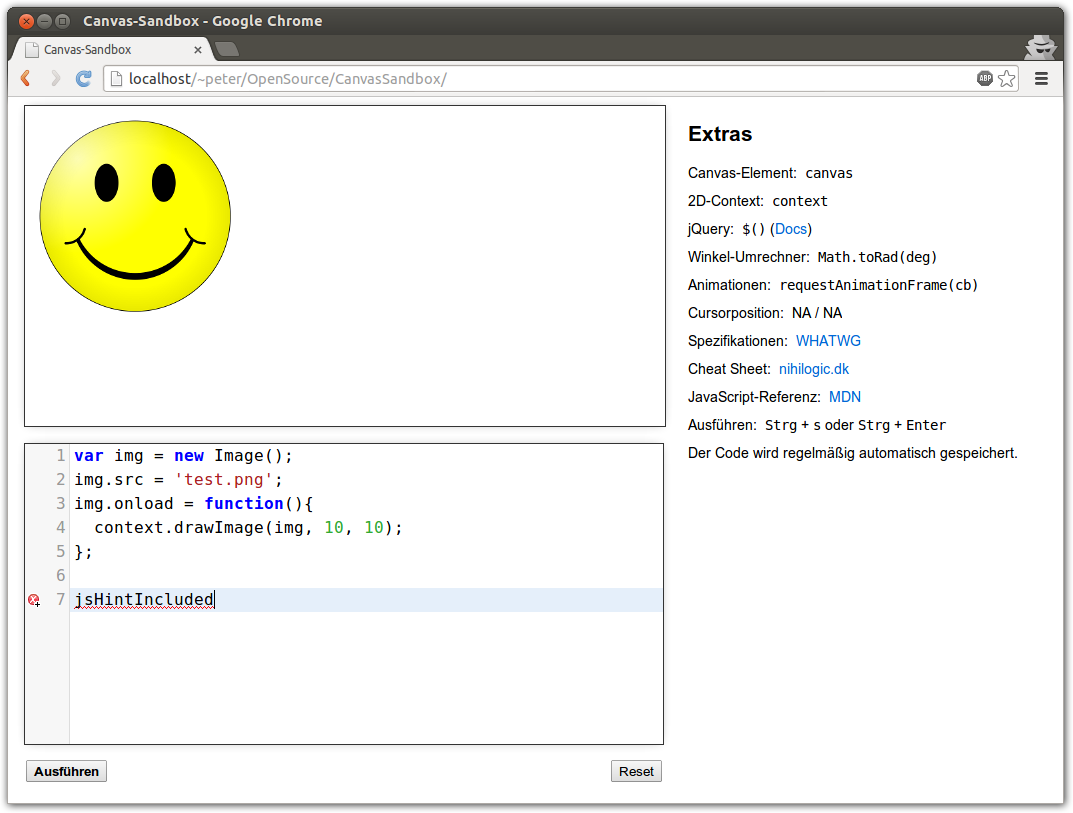
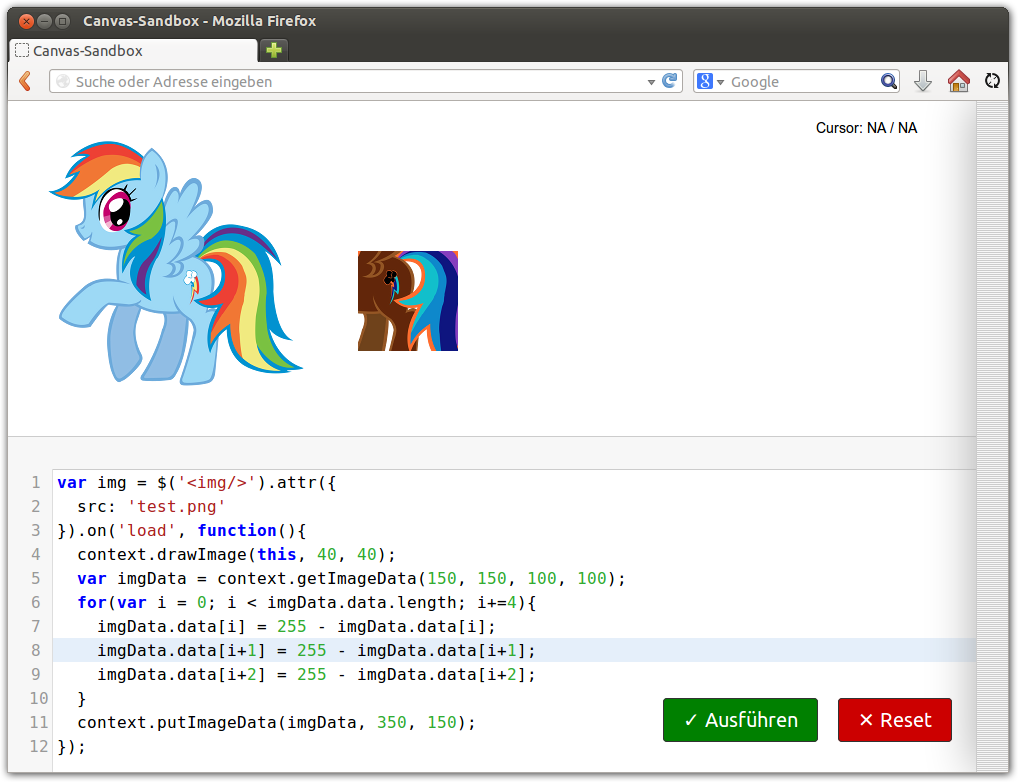
New design is new

diff --git a/index.html b/index.html
@@ -7,15 +7,21 @@
 
 <div id="Main">
 	<canvas height="320" width="640" id="Canvas0"></canvas>
-	<br>
 	<textarea id="Code" cols="60" rows="10"></textarea>
-	<br>
-	<input type="button" value="Ausführen" id="Execute">
-	<input type="button" value="Reset" id="Reset">
 </div>
 
+<p class="buttons">
+	<input type="button" value="✓ Ausführen" id="Execute">
+	<input type="button" value="✕ Reset" id="Reset">
+</p>
+
+<p class="cursor">
+	Cursor:
+	<span id="PosX">NA</span> / <span id="PosY">NA</span>
+</p>
+
 <div id="Side">
-	<h2>Extras</h2>
+	<h2>Hilfe</h2>
 	<dl>
 		<dt>Canvas-Element:</dt>
 		<dd><code>canvas</code></dd>
@@ -27,8 +33,6 @@
 		<dd><code>Math.toRad(deg)</code></dd>
 		<dt>Animationen:</dt>
 		<dd><code>requestAnimationFrame(cb)</code></dd>
-		<dt>Cursorposition:</dt>
-		<dd><span id="PosX">NA</span> / <span id="PosY">NA</span></dd>
 		<dt>Spezifikationen:</dt>
 		<dd><a href="http://www.whatwg.org/specs/web-apps/current-work/multipage/the-canvas-element.html">WHATWG</a>
 		<dt>Cheat Sheet:</dt>

diff --git a/src/script/canvasSandbox.js b/src/script/canvasSandbox.js
@@ -77,4 +77,20 @@ $('#Reset').click(function(){
 });
 
 
+var resizeCanvas = function(){
+  var height = $('html').height() - $('.CodeMirror').height() - 32;
+  var width = $('#Main').width();
+  $('canvas').attr({
+    height: height,
+    width: width
+  });
+};
+$(window).load(function(){
+  setTimeout(function(){ // Hack required for Firefox
+    resizeCanvas();
+  }, 25);
+});
+$(window).on('resize', resizeCanvas);
+
+
 });

diff --git a/readme.md b/readme.md
@@ -3,7 +3,7 @@ Canvas Sandbox
 
 A simple HTML5 Canvas sandbox for educational purposes (MIT License). Supports
 keyboard shortcuts, JSHint, and autosave using web storage. Tested in Chrome,
-Firefox, Opera and IE 9.
+and Firefox but should also work in Opera and IE 9.
 
 ![Screenshot](https://github.com/SirPepe/CanvasSandbox/raw/master/screenshot.png)
 
